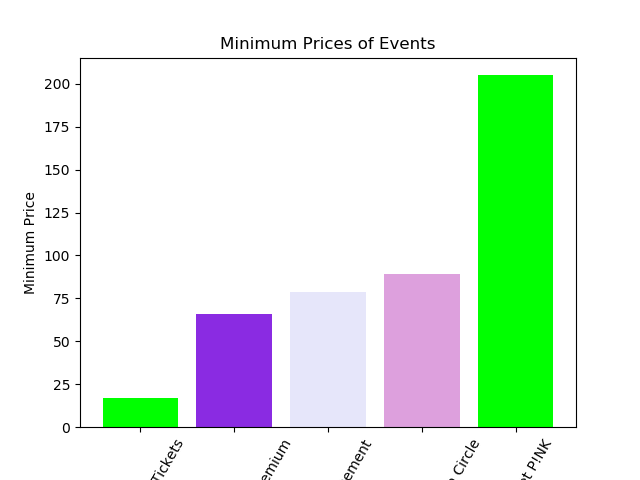
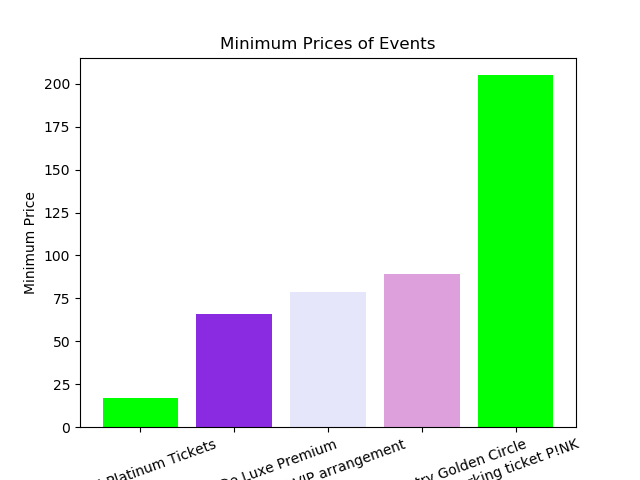
fixed functions

diff --git a/finalproject.py b/finalproject.py
@@ -30,7 +30,6 @@ def get_data(database):
   data = cur.fetchall()
   r2 = requests.get("https://app.ticketmaster.com/discovery/v2/events?apikey=J0BKwKyQOuE9li4P2HDD1J4Ho2JWug95&size=20&countryCode=NL")
   for x in r2.json()['_embedded']['events']:
-    print(x)
     name = x['name']
     priceMin = x['priceRanges'][1]['min']
     priceMax = x['priceRanges'][1]['max']
@@ -51,13 +50,15 @@ def get_data(database):
   conn.commit()
   
   db_data = cur.execute('SELECT * FROM Restaurants, Playlist')
-  
+  return 'Database Created' 
   
   
 # # CALCULATIONS
-
+def calulations(database):
 # # Restaurants
 # average rating of a Restaurant in Amsterdam = ?
+  conn = sqlite3.connect(database)
+  cur = conn.cursor()
   cur.execute('SELECT rating FROM Restaurants')
   total = 0
   count = 0
@@ -99,12 +100,14 @@ def get_data(database):
     count += 1
   average_song_length_in_seconds = (total/count)
   print(average_song_length_in_seconds)
-
+  return 'Calculations Done'
 
 
 # PLOTS!!!!!!!
-
+def plots(database):
 # Restaurants plot ... plotting the ratings of the restaurants
+  conn = sqlite3.connect(database)
+  cur = conn.cursor()
   cur.execute('SELECT name FROM Restaurants')
   name_list = []
   for name in cur:
@@ -171,7 +174,7 @@ def get_data(database):
   plt.ylabel('Minimum Price')
   plt.xlabel('Event Name')
   plt.title('Minimum Prices of Events')
-  plt.xticks(rotation=30)
+  plt.xticks(rotation=20)
   plt.savefig('Prices_event.png')
   plt.show() 
   
@@ -184,11 +187,11 @@ def get_data(database):
   plt.xlabel('Minimim Price')
   plt.ylabel('Maximum Price')
   plt.title('Minimum vs Maximum Prices of Events in Amsterdam')
-  plt.xticks(rotation=60)
   plt.savefig('Event_plot.png')
   plt.show()
 
+  return 'Plots Made'
 
-
-  return 'Database Created'
 print(get_data('final_project.sqlite'))
+print(calulations('final_project.sqlite'))
+print(plots('final_project.sqlite'))
